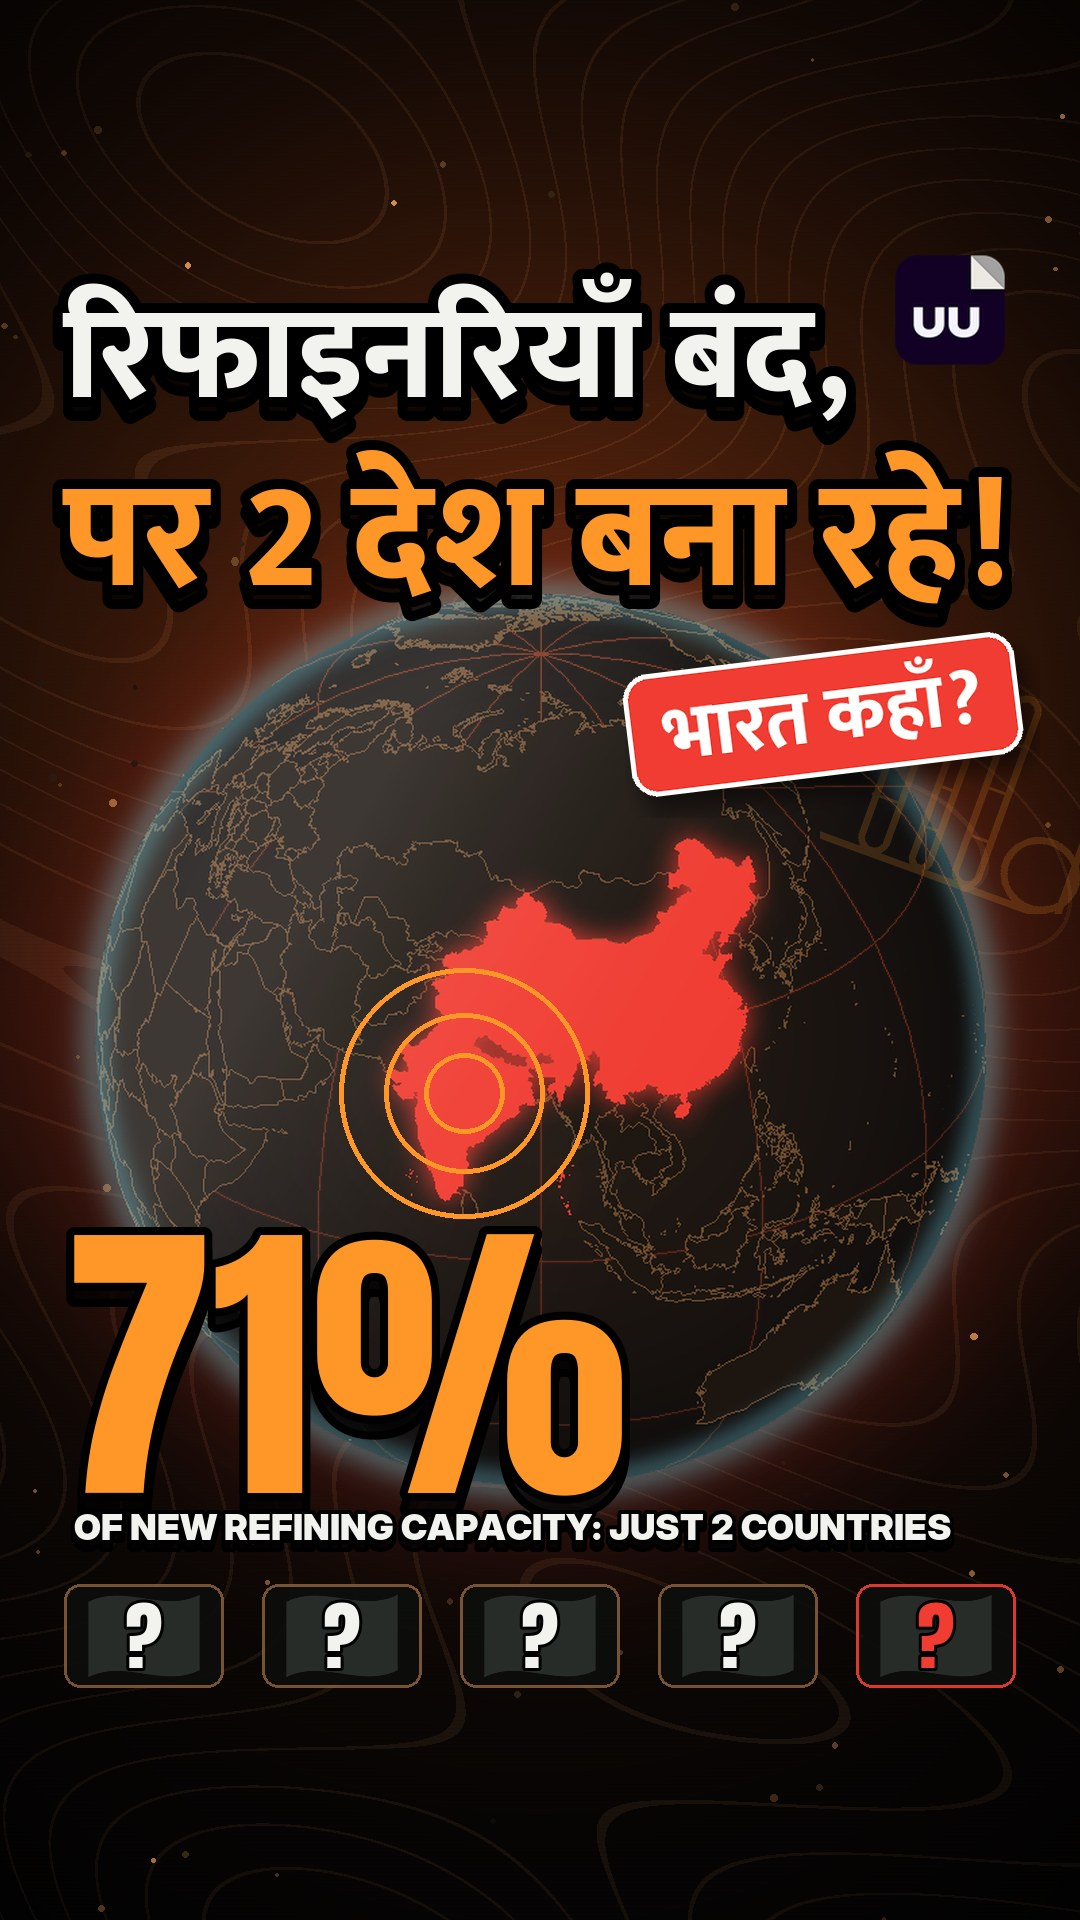
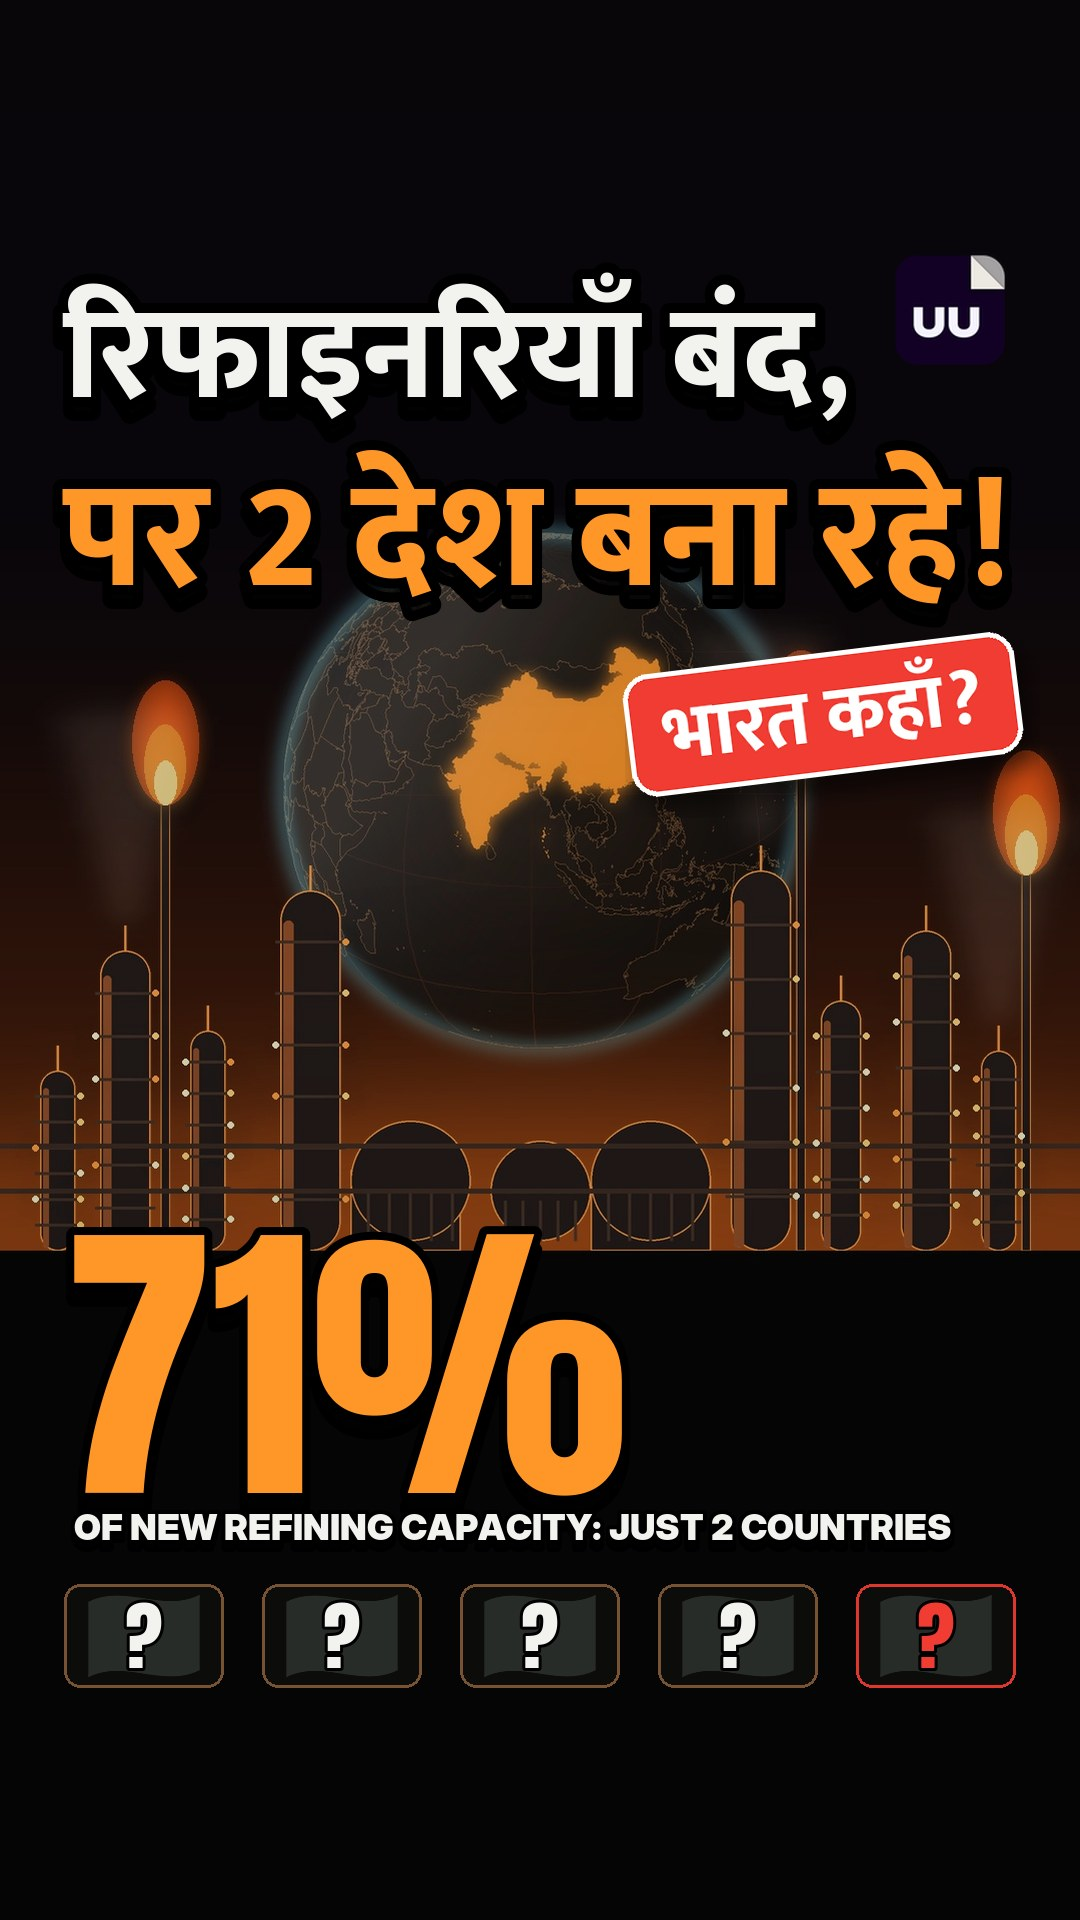
Reel 016: new thumbnail with refinery skyline (set on YouTube)
Claude-Session: https://claude.ai/code/session_01MbtTV98FtmthActu9XfM1b

diff --git a/tools/v2/examples/016_refinery/make_thumb_bg.py b/tools/v2/examples/016_refinery/make_thumb_bg.py
@@ -1,0 +1,71 @@
+"""Thumbnail background for reel 016: night refinery skyline under a globe with India + China lit."""
+import sys, math, random
+sys.argv = ["x", "/home/claude/work/016/spec.json"]
+sys.path.insert(0, "/home/claude/unknown-uncovered/tools/v2")
+import numpy as np
+from PIL import Image, ImageDraw, ImageFilter
+import uu_render as R
+W, H = 1080, 1920; S2 = 2
+rnd = random.Random(4)
+# sky
+y = np.linspace(0, 1, H)[:, None]
+top = np.array([8, 6, 10]); hor = np.array([120, 46, 10])
+k = np.clip((y - 0.25) / 0.45, 0, 1) ** 1.6 * (1 - np.clip((y - 0.62) / 0.2, 0, 1))
+sky = (top + (hor - top) * k[..., None]) * np.ones((1, W, 1))
+bg = Image.fromarray(sky.astype(np.uint8)).convert("RGBA")
+# globe, India + China lit
+g = R.GLOBE.render(22, 92, highlight=["IN", "CN"], hl_alpha=1, dim_others=0.45, pulse=0.6)
+gs = 640; g = g.resize((gs, gs), Image.LANCZOS)
+bg.alpha_composite(g, (W // 2 - gs // 2, 470))
+# refinery skyline (drawn at 2x)
+L = Image.new("RGBA", (W * S2, H * S2), (0, 0, 0, 0)); d = ImageDraw.Draw(L)
+base = 1250 * S2; steel = (34, 27, 26, 255); edge = (255, 150, 60, 255)
+lights = []
+def column(x, w, h):
+    d.rounded_rectangle([x, base - h, x + w, base], radius=w // 2, fill=steel, outline=edge, width=3)
+    d.rounded_rectangle([x + 6, base - h + w // 2, x + 6 + w // 6, base - 6], radius=w // 12, fill=(150, 80, 40, 255))
+    for j in range(1, 7):
+        yy = base - h * j / 7; d.line([x - 10, yy, x + w + 10, yy], fill=(70, 50, 40, 255), width=6)
+        lights.append((x + w + 10, yy)); lights.append((x - 10, yy))
+    d.line([x + w * 0.5, base - h - 50, x + w * 0.5, base - h], fill=edge, width=5)
+def flare(x, h):
+    d.rectangle([x - 9, base - h, x + 9, base], fill=steel, outline=edge, width=2)
+    return (x, base - h)
+def sphere(cx, r):
+    d.ellipse([cx - r, base - 2 * r - 20, cx + r, base - 20], fill=steel, outline=edge, width=3)
+    for a in range(5): d.line([cx - r * 0.7 + a * r * 0.35, base - 20, cx - r * 0.7 + a * r * 0.35, base - r], fill=(70, 50, 40, 255), width=6)
+def tank(x, w, h):
+    d.rectangle([x, base - h, x + w, base], fill=steel, outline=edge, width=3)
+    d.ellipse([x, base - h - 18, x + w, base - h + 18], fill=(40, 30, 28, 255), outline=edge, width=3)
+cols = [(80, 70, 360), (200, 100, 600), (380, 70, 440), (560, 120, 720), (1460, 120, 760), (1640, 80, 500), (1800, 100, 640), (1960, 70, 400)]
+tank(700, 220, 160); tank(1180, 240, 140)
+for (x, w, h) in cols: column(x, w, h)
+sphere(820, 120); sphere(1080, 100); sphere(1300, 120)
+flares = [flare(330, 900), flare(1600, 960), flare(2050, 760)]
+# pipe racks
+for yy in (base - 120, base - 210):
+    d.line([0, yy, W * S2, yy], fill=(60, 44, 36, 255), width=10)
+d.rectangle([0, base, W * S2, H * S2], fill=(6, 5, 6, 255))
+L = L.resize((W, H), Image.LANCZOS)
+glow = Image.new("RGBA", (W, H), (0, 0, 0, 0)); gd = ImageDraw.Draw(glow)
+gd.ellipse([-200, 1050, W + 200, 1450], fill=(255, 120, 30, 120))
+bg.alpha_composite(glow.filter(ImageFilter.GaussianBlur(90)))
+bg.alpha_composite(L)
+# lights + flames
+fx = Image.new("RGBA", (W, H), (0, 0, 0, 0)); fd = ImageDraw.Draw(fx)
+for (x, yy) in lights:
+    if rnd.random() < 0.6:
+        c = rnd.choice([(255, 210, 120), (255, 240, 200), (255, 160, 60)]); fd.ellipse([x / 2 - 3, yy / 2 - 3, x / 2 + 3, yy / 2 + 3], fill=c + (255,))
+for (x, yy) in flares:
+    x, yy = x / 2, yy / 2
+    for (r, col) in ((60, (255, 90, 20, 140)), (38, (255, 150, 40, 220)), (20, (255, 230, 150, 255))):
+        fd.ellipse([x - r * 0.55, yy - r * 2.0, x + r * 0.55, yy + 4], fill=col)
+halo = fx.filter(ImageFilter.GaussianBlur(14))
+bg.alpha_composite(halo); bg.alpha_composite(halo); bg.alpha_composite(fx)
+# steam
+st = Image.new("RGBA", (W, H), (0, 0, 0, 0)); sd = ImageDraw.Draw(st)
+for (x, w, h) in cols[1::3]:
+    cx = (x + w / 2) / 2; cy = (base - h - 60) / 2
+    for j in range(5): sd.ellipse([cx - 30 - j * 14, cy - 40 - j * 45, cx + 30 + j * 14, cy + 10 - j * 45], fill=(200, 170, 150, 40))
+bg.alpha_composite(st.filter(ImageFilter.GaussianBlur(16)))
+bg.convert("RGB").save("/home/claude/work/016/thumb_bg.jpg", quality=95); print("ok")
